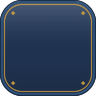
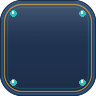
chrome: put the drawn panel behind every card
The painted backdrops are far busier than the vector ones, and the cards were still the flat Unity
`panel_frame` plate at 96 % alpha: on the district screen the water channel ran straight through a
card. They now use the drawn `ui_panel`, which is opaque, and that plate gained the second colour a
Persian frame always carries — a turquoise inlay inside the gold hairline and a stud in each corner.

Same swap for the settings and shop panels and for the pause and result cards over the board.

Changed region(s): [[0.0625, 0.25, 0.9375, 0.9375], [0.8125, 0.0938, 0.9062, 0.1875], [0.0938, 0.0938, 0.1875, 0.1875]]

diff --git a/godot-port/tools/make_ui_art.py b/godot-port/tools/make_ui_art.py
@@ -234,7 +234,8 @@ def save(img, name):
 # ---- the plate ----------------------------------------------------------------------------------
 
 
-def plate(name, size, radius, base, edge, rim_colour=None, marks=None, gloss=0.55, grain_strength=5):
+def plate(name, size, radius, base, edge, rim_colour=None, marks=None, gloss=0.55, grain_strength=5,
+          inlay=None, studs=False):
     """One plate, built from the same six layers every other plate uses."""
     top = _scale(base, 1.0 + 0.34 * gloss)
     middle = _scale(base, 1.0 + 0.06 * gloss)
@@ -247,8 +248,20 @@ def plate(name, size, radius, base, edge, rim_colour=None, marks=None, gloss=0.5
     img = rim(img, radius, edge, width=2, inset=1)
     if rim_colour:
         img = hairline(img, radius, rim_colour, inset=4, alpha=210)
+    if inlay:
+        # A turquoise line just inside the gold: the second colour a Persian frame always carries.
+        img = hairline(img, radius, inlay, inset=7, alpha=64)
     if marks:
         img = corner_marks(img, radius, marks, inset=max(4, radius // 3), size=2)
+    if studs:
+        stud = ImageDraw.Draw(img)
+        for cx, cy in ((radius * 0.62, radius * 0.62), (size[0] - radius * 0.62, radius * 0.62),
+                       (radius * 0.62, size[1] - radius * 0.62),
+                       (size[0] - radius * 0.62, size[1] - radius * 0.62)):
+            r = 3.0
+            stud.ellipse((cx - r, cy - r, cx + r, cy + r), fill=ACCENT + (235,))
+            stud.ellipse((cx - r * 0.45, cy - r * 0.55, cx + r * 0.1, cy - r * 0.05),
+                         fill=WHITE + (200,))
     save(img, name)
 
 
@@ -265,8 +278,10 @@ def main():
           marks=WHITE)
 
     # Panels and cards: 96 dp with a 20 dp border, so a nine-slice at any size keeps its corners.
-    plate("ui_panel", (96, 96), 22, SURFACE, BORDER, rim_colour=GOLD, gloss=0.4, marks=GOLD)
-    plate("ui_panel_raised", (96, 96), 22, RAISED, BORDER, rim_colour=GOLD, gloss=0.55, marks=GOLD)
+    plate("ui_panel", (96, 96), 22, SURFACE, BORDER, rim_colour=GOLD, gloss=0.4, marks=GOLD,
+          inlay=ACCENT, studs=True)
+    plate("ui_panel_raised", (96, 96), 22, RAISED, BORDER, rim_colour=GOLD, gloss=0.55, marks=GOLD,
+          inlay=ACCENT, studs=True)
     plate("ui_button", (96, 64), 20, RAISED, BORDER, rim_colour=GOLD, gloss=0.55)
     plate("ui_button_gold", (96, 64), 20, GOLD, GOLD_DARK, rim_colour=GOLD_LIGHT, gloss=0.65,
           marks=WHITE)
